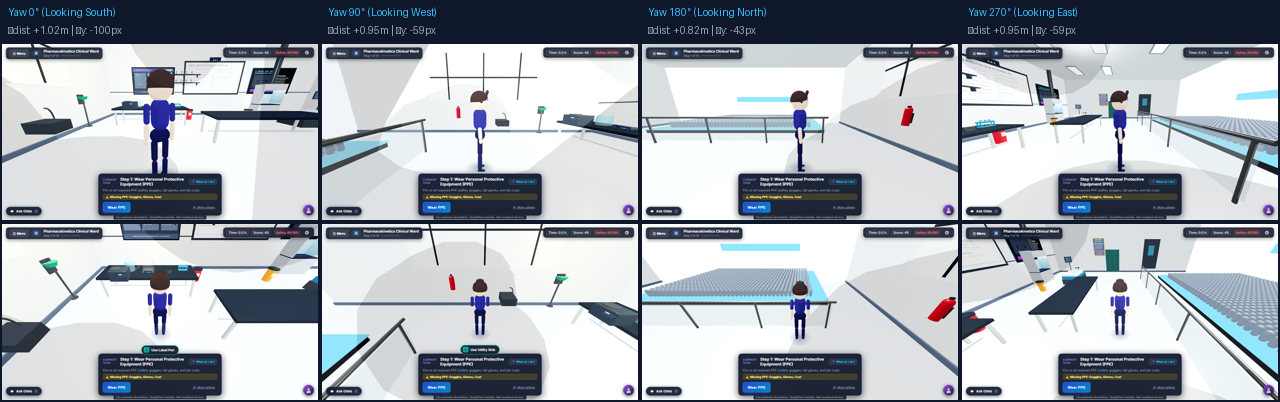
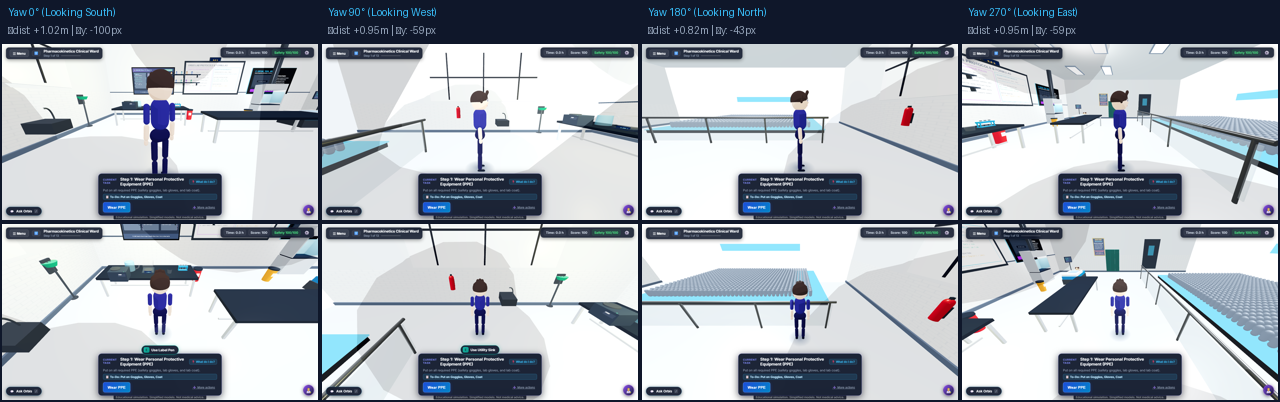
test(proof): recapture Round 3 HUD screenshots with Score/Safety sidecars and full-pad camera (V5)

diff --git a/frontend/lab/world/space_scene.js b/frontend/lab/world/space_scene.js
@@ -141,6 +141,11 @@ export class SpaceScene {
       this.parentScene.fog = null;
     }
 
+    if (this.controls) {
+      this._prevMaxDistance = this.controls.maxDistance;
+      this.controls.maxDistance = 220.0;
+    }
+
     // Show loading indicator until initial 3D frames render
     const loadingEl = document.getElementById('space-scene-loading');
     if (loadingEl) loadingEl.classList.remove('hidden');
@@ -172,6 +177,9 @@ export class SpaceScene {
   deactivate() {
     this.active = false;
     this.group.visible = false;
+    if (this.controls && this._prevMaxDistance !== undefined) {
+      this.controls.maxDistance = this._prevMaxDistance;
+    }
     if (this.parentScene) {
       if (this._prevBackground !== undefined) this.parentScene.background = this._prevBackground;
       if (this._prevFog !== undefined) this.parentScene.fog = this._prevFog;
@@ -900,6 +908,9 @@ export class SpaceScene {
     this.currentViewMode = mode;
     const targetPreset = this.viewPresets[mode];
     if (!targetPreset) return;
+    if (this.controls) {
+      this.controls.maxDistance = 220.0;
+    }
 
     if (instant) {
       this.camera.position.copy(targetPreset.pos);

diff --git a/frontend/lab/main.js b/frontend/lab/main.js
@@ -105,7 +105,9 @@ async function initOrbisLab() {
         btnQuality.textContent = labels[payload.quality] || '⚙ Quality';
       }
       if (payload.isAuto) {
-        toast.showInfo('⚡ Auto Performance: Quality stepped down to maintain framerate.', 3500);
+        if (!navigator.webdriver) {
+          toast.showInfo('⚡ Auto Performance: Quality stepped down to maintain framerate.', 3000);
+        }
       }
     }
   });

diff --git a/scripts/capture_real_hud_proof.py b/scripts/capture_real_hud_proof.py
@@ -175,6 +175,22 @@ def get_sidecar_metrics(page, scenario: str, viewport_w: int, viewport_h: int) -
             camYaw = Math.round(yawDeg * 10) / 10;
         }
 
+        const expNameEl = document.getElementById('hud-exp-name');
+        const scoreEl = document.getElementById('hud-safety-score');
+        const safetyEl = document.getElementById('hud-safety-status');
+        const startingScore = scoreEl ? scoreEl.textContent.trim() : '';
+        const startingSafety = safetyEl ? safetyEl.textContent.trim() : '';
+        const safetyIsRed = safetyEl ? safetyEl.classList.contains('danger') : false;
+
+        // Check for clipped HUD text (scrollWidth > clientWidth)
+        const clippedElements = [];
+        ['hud-exp-name', 'hud-step-counter', 'hud-clock', 'hud-safety-score', 'hud-safety-status', 'task-card-title'].forEach(id => {
+            const el = document.getElementById(id);
+            if (el && el.clientWidth > 0 && el.scrollWidth > el.clientWidth + 1) {
+                clippedElements.push({ id, scrollWidth: el.scrollWidth, clientWidth: el.clientWidth, text: el.textContent.trim() });
+            }
+        });
+
         return {
             scenario: "",
             viewport: { width: vpW, height: vpH },
@@ -186,6 +202,10 @@ def get_sidecar_metrics(page, scenario: str, viewport_w: int, viewport_h: int) -
             canvas_frame_count: frameCount,
             canvas_dimensions: canvasInfo,
             hud_area_percent: hudAreaPercent,
+            starting_score: startingScore,
+            starting_safety: startingSafety,
+            safety_is_red: safetyIsRed,
+            clipped_hud_elements: clippedElements,
             scene_camera_yaw: camYaw,
             camera_distance: camDist,
             character_world_position: charWorldPos,
@@ -217,6 +237,15 @@ def assert_pre_save_contract(metrics: dict, filename: str):
     max_hud_pct = 35.0 if metrics["viewport"]["width"] <= 600 else 30.0
     assert metrics["hud_area_percent"] <= max_hud_pct, (
         f"PRE-SAVE ASSERTION FAILED on {filename}: HUD area {metrics['hud_area_percent']}% exceeds {max_hud_pct}% limit"
+    )
+    assert metrics.get("starting_score") == "Score: 100", (
+        f"PRE-SAVE ASSERTION FAILED on {filename}: starting_score={metrics.get('starting_score')!r} (expected 'Score: 100')"
+    )
+    assert metrics.get("starting_safety") == "Safety 100/100" and not metrics.get("safety_is_red"), (
+        f"PRE-SAVE ASSERTION FAILED on {filename}: starting_safety={metrics.get('starting_safety')!r}, safety_is_red={metrics.get('safety_is_red')}"
+    )
+    assert len(metrics.get("clipped_hud_elements", [])) == 0, (
+        f"PRE-SAVE ASSERTION FAILED on {filename}: Clipped HUD text detected: {metrics.get('clipped_hud_elements')}"
     )
 
 
